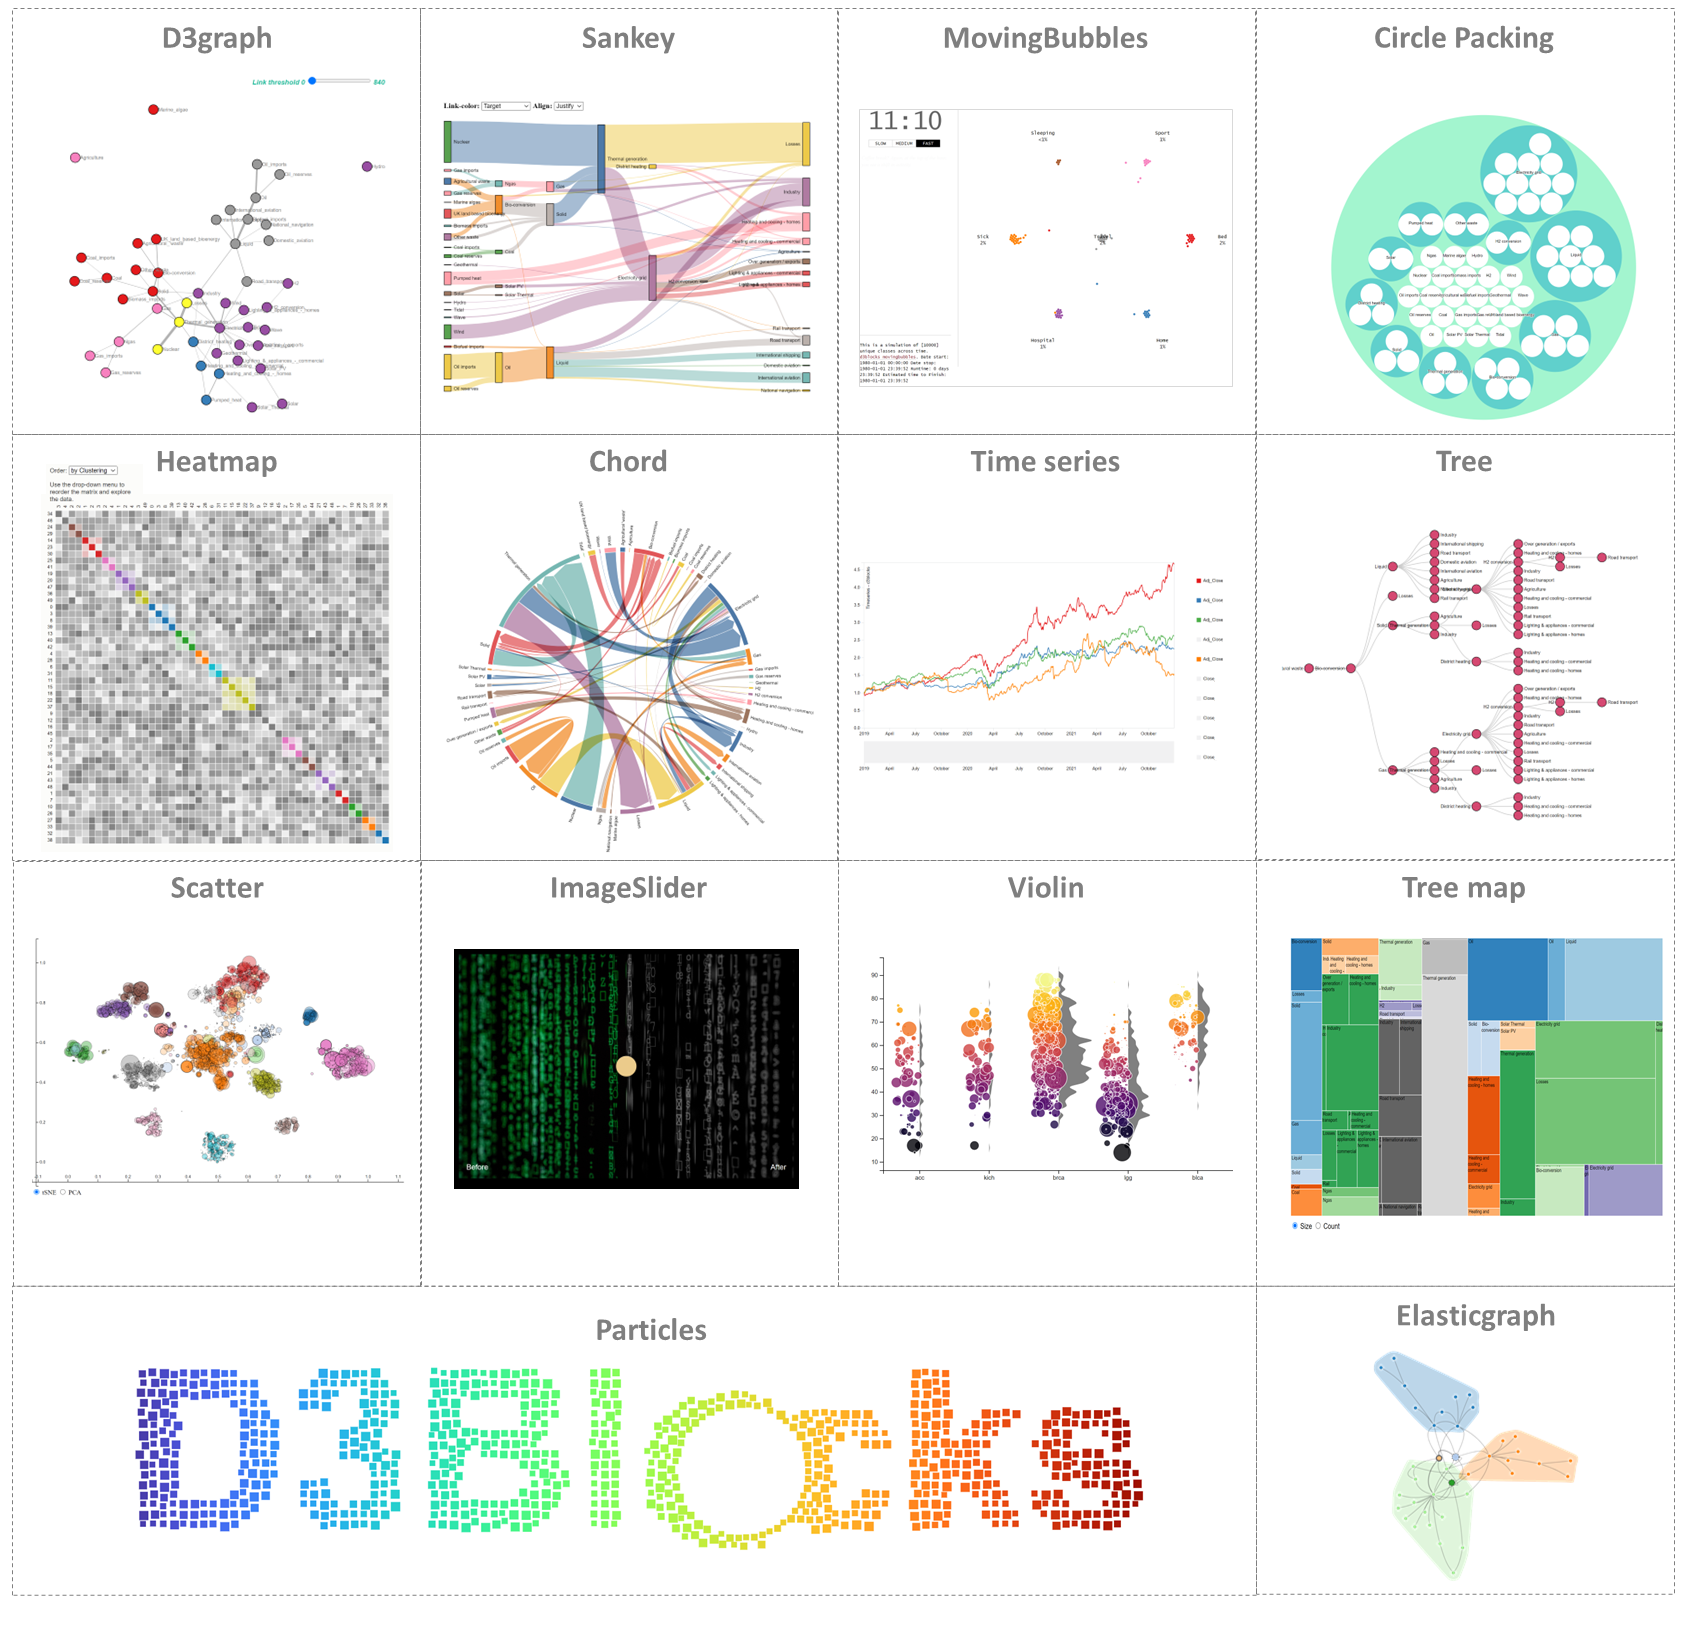
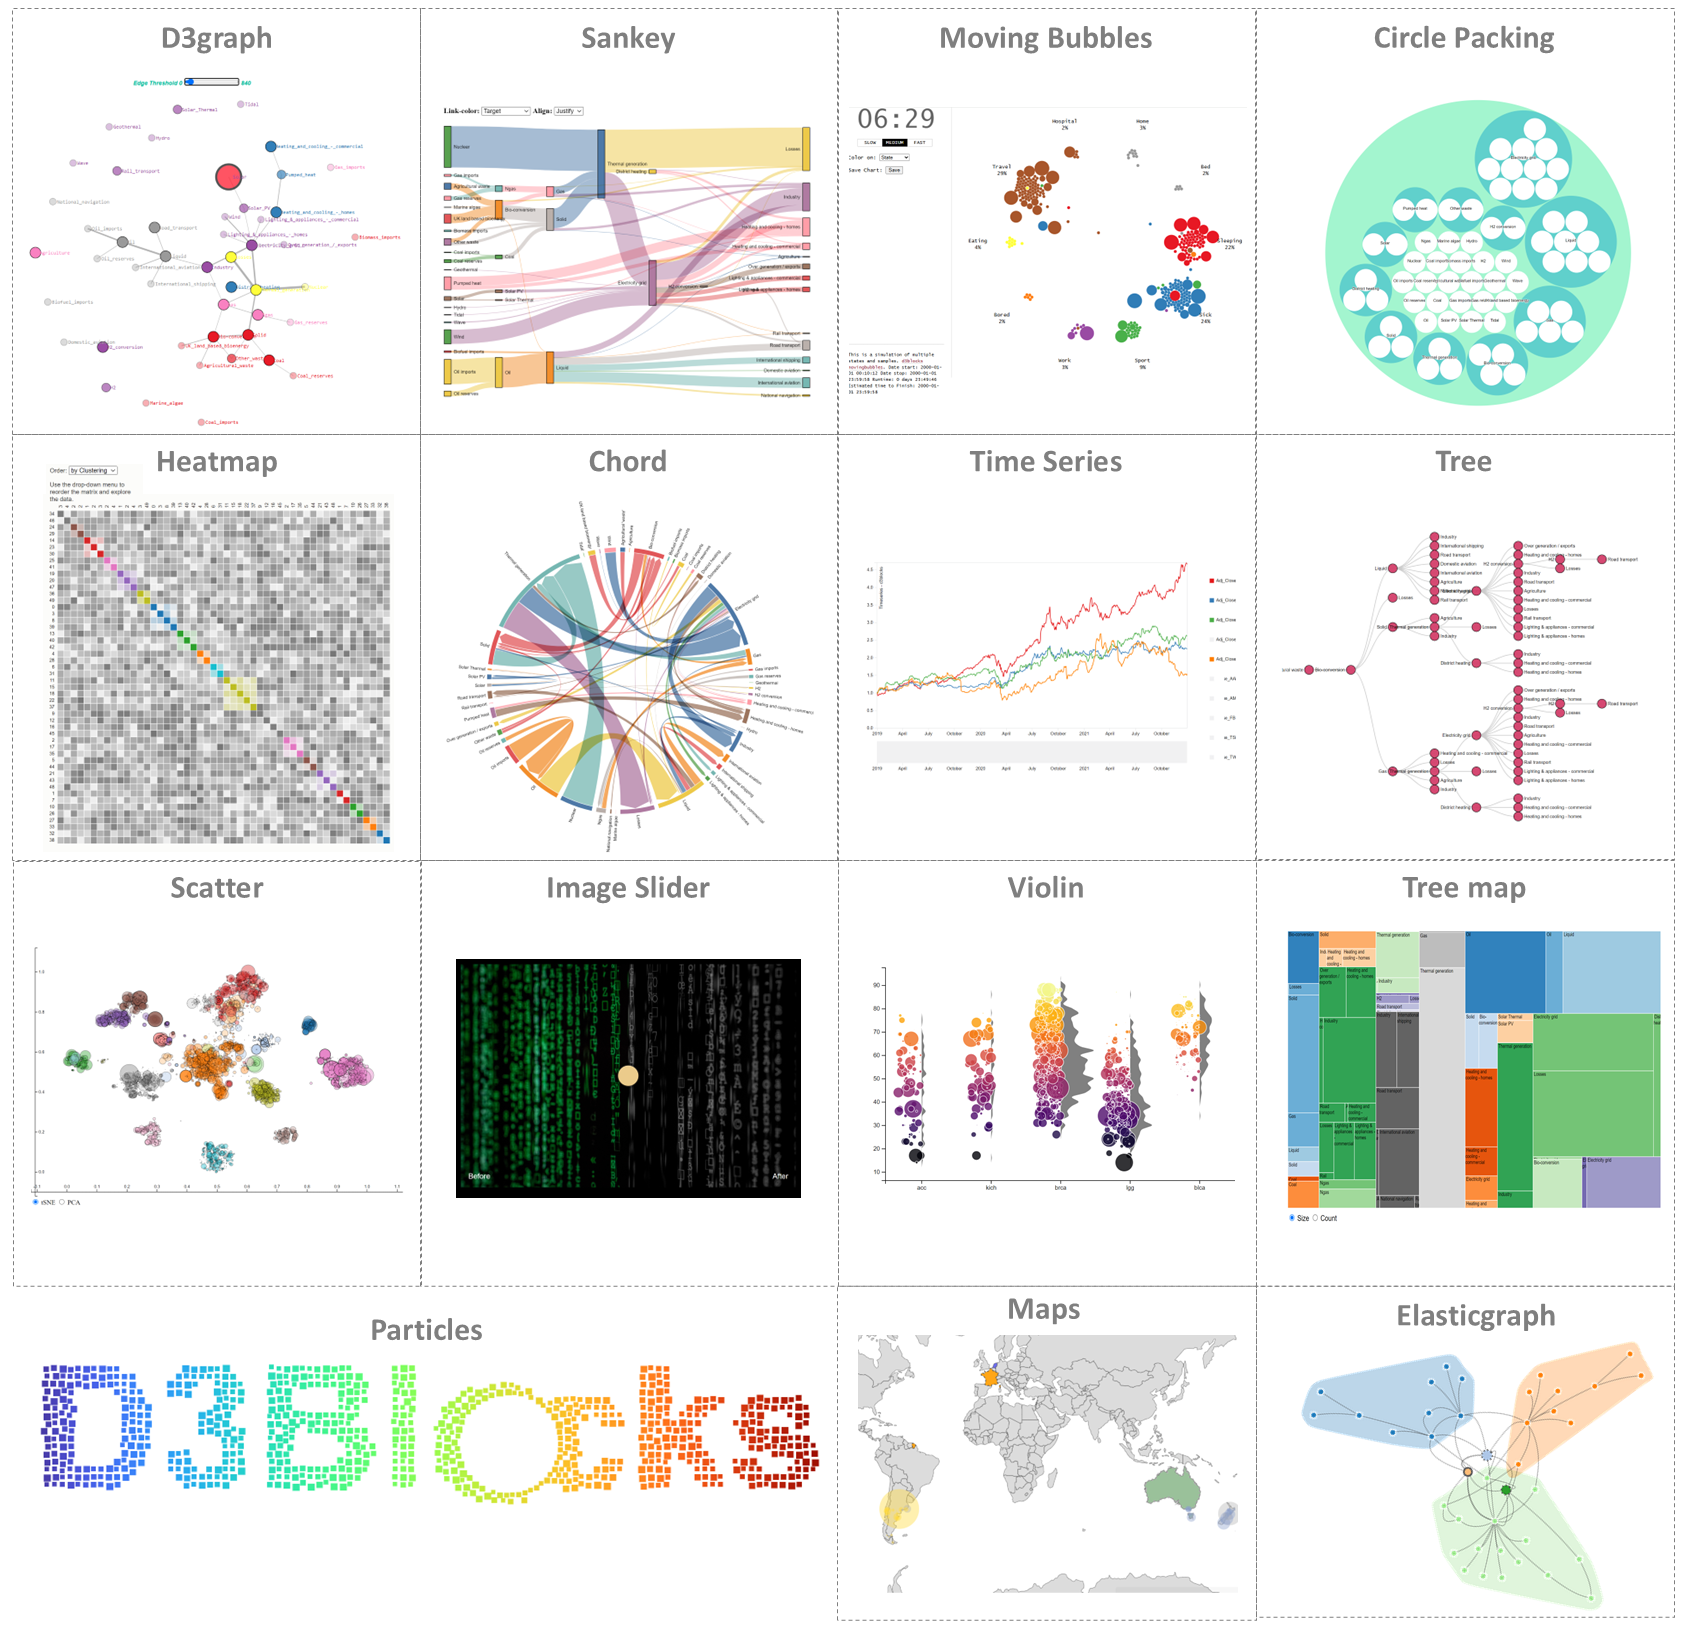
update figure and docs

diff --git a/d3blocks/d3blocks.py b/d3blocks/d3blocks.py
@@ -1307,16 +1307,18 @@ class D3Blocks():
         Examples
         --------
         >>> # Load d3blocks
+        >>> import random
         >>> from d3blocks import D3Blocks
         >>> #
         >>> # Initialize
         >>> d3 = D3Blocks(chart='movingbubbles')
         >>> #
         >>> # Import example
-        >>> df = d3.import_example('random_time', n=1000, c=100, date_start="1-1-2000 00:10:05", date_stop="1-1-2000 23:59:59")
+        >>> df = d3.import_example('random_time', n=10000, c=300, date_start="1-1-2000 00:10:05", date_stop="1-1-2000 23:59:59")
         >>> #
-        >>> # Specify the colors and node sizes for the specific sample_id
-        >>> size = {1: 20, 3: 40}
+        >>> # Specify the colors and node sizes for the specific sample_id or for demonstration, generated randomly
+        >>> # size = {1: 15, 3: 30, 5: 25}
+        >>> size = {i: random.randint(2, 15) for i in range(1, 100)}
         >>> color = {1: '#FF0000', 3: '#000FFF'}
         >>> #
         >>> # Show
@@ -2083,8 +2085,8 @@ class D3Blocks():
 
         References
         ----------
-        * Blog: https://towardsdatascience.com/creating-beautiful-stand-alone-interactive-d3-charts-with-python-804117cb95a7
         * Gitlab : https://gitlab.com/rwsdatalab/public/codebase/tools/elasticgraph
+        * Blog
 
         """
         # Cleaning
